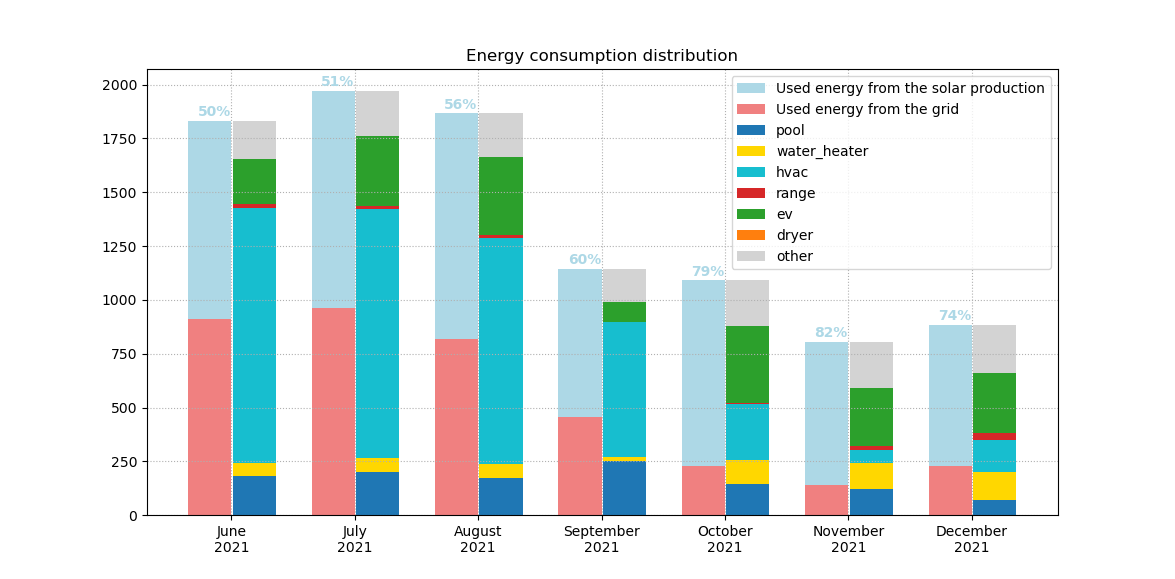
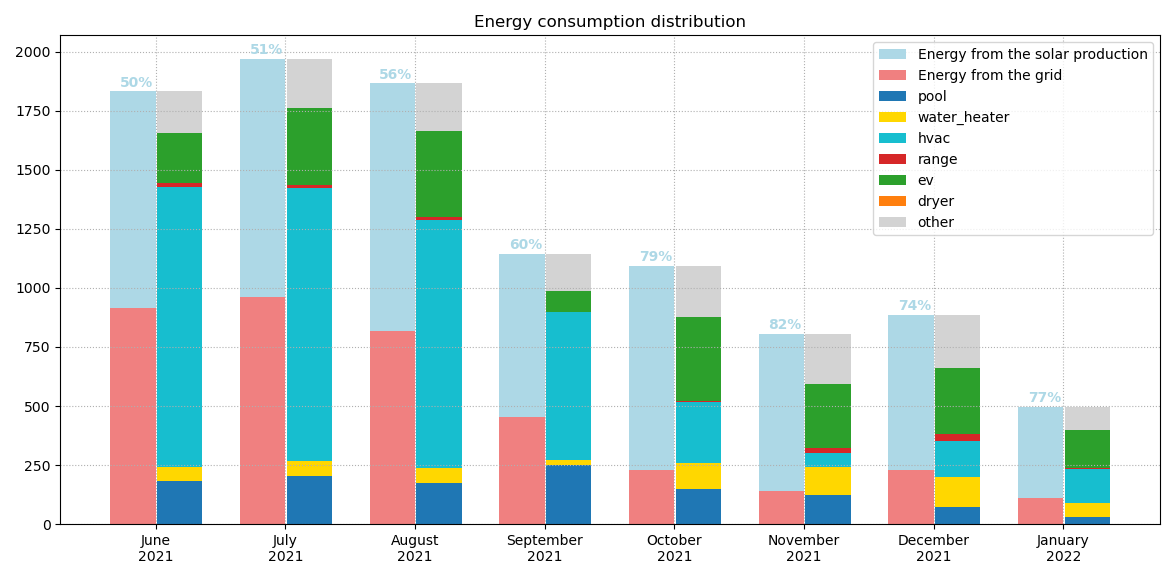
README: generate README.md from README.org
README.org dynamically computes data and create diagram used by
README.md.

diff --git a/README.md b/README.md
@@ -1,0 +1,46 @@
+This project aims to optimize the use of solar produced energy in a residential home. In the implementation described below it optimizes three appliances: an Electric Vehicle charger, a water heater and an HVAC system. The project has focused so far on these three appliances because they add up to approximately 72% of a my home energy usage and they are a form of energy storage.
+
+My home is located in Phoenix, Arizona and my solar system is not equipped with battery system. Even though at this location 296 days per year are either sunny or partly sunny, photovoltaic production is still highly unpredictable and I quickly confirmed that a time based schedule was not going to be enough to meet to the ambitious goal of running 100% of the car and &asymp; 60 to 70% of my entire home consumption coming from the solar panels production. 
+
+The illustration below shows the energy consumption distribution of my home since I started this project.
+
+![img](doc/images/energy_consumption_distribution.png)
+
+This diagram does not reflect the result of the latest version of this project because I went through several proof of concepts over time. Nevertheless, it allows to see that between `June 2021` and `January 2022`, on average &asymp; `62%` of the electricity used by my home came from the solar panels.
+
+The implementation relies on various modules providing services such as weather forecast, instant power consumption records, solar power prediction, home thermal model, appliances controls and a scheduler. **Note**: This project implementation is not generic enough to be plugged-in as-is to control any system. Some modules rely on specific hardware devices or specific software interfaces. For instance, the `car_charger` task module relies on the Pulsar II Wallbox&reg; charger   and have dependencies on their cloud service. Nevertheless, I believe that most of this project can be re-use in various forms and this is why I made it available publicly.
+
+When I started this project I discarded existent Home Automation "framework" such as Home Assistant as I didn't want my design to be tighten to a framework or have to carry the burden of software architecture which could have made my work more difficult. Also, I originally needed a prompt solution to charge my car smartly and I did not have time to dig in the various frameworks. However, this project is modular enough that I have been able to quickly integrate it to Home Assistant as you can see in the screen capture below.
+
+![img](./doc/images/scheduler_at_work.png)
+
+The software architecture is based on well separated python modules each running in their dedicate process. Each module implements known interfaces such as or . Alternatively or in addition, a module can expose its a original service interface. The inter-processes communication is guaranteed by the [pyro5](https://pypi.org/project/Pyro5/) remote objects communication library. Each service, sensor or task is registered to a pyro5 nameserver under the `home-manager` namespace.  The services are under the `home-manager.service` sub-namespace, the sensors under the `home-manager.sensor` sub-namespace and the tasks are under the `home-manager.task` sub-namespace. For instance, the task responsible of the HVAC system is implemented by the [hvac.py](./src/hvac.py) program and registered as `home-manager.task.hvac` to the nameserver.
+
+The diagram below represents the principal communications between the main modules.
+
+![img](doc/images/programs-communication.png)
+
+Now let's have go a short presentation or the modules:
+
+<span class="underline">The main sensors are</span>:
+
+1.  The [power\_sensor](./doc/power_sensor.md) (`home_manager.sensor.power`) module provides instantaneous power consumption and power production readings. It also provides power reading over a certain period of time such as one minute, one hour or one day. This sensor is used by the [scheduler](./doc/scheduler.md) to build power consumption statistics leading to task scheduling decisions. Some task such as [car\_charger](./doc/car_charger.md) also uses this sensor.
+2.  The [power\_simulator](./doc/power_simulator.md) (`home_manager.sensor.power_simulator` and `home_manager.sensor.power_simulator`) module implements the solar panel model of my installation using the python [pvlib](https://pvlib-python.readthedocs.io/en/stable/) library.
+    -   Similarly to [power\_sensor](./doc/power_sensor.md) the sensor part of this module provides instantaneous power consumption and production readings except that the production reading are based on a solar panel model and the consumption reading are based on current the tasks status. This [power\_simulator](./doc/power_simulator.md) is used as an alternative if [power\_sensor](./doc/power_sensor.md) is failing by the [scheduler](./doc/scheduler.md) and the [car\_charger](./doc/car_charger.md).
+    -   The service part of this module provides properties and functions such as:
+        -   the [max\_available\_power](./doc/power_simulator.md#max_available_power) property which is the maximum instantaneous power in kW the solar panels are expected to deliver from now to the end of daytime
+        -   the [next\_power\_window(power)](./doc/power_simulator.md#next_power_window) function which returns the next time frame when `power` kW would be available on a perfectly sunny day. This information is useful to tasks which need to know until when they can expect to get enough power to run.
+3.  The [weather](./doc/weather.md) (`home_manager.sensor.weather` and `home_manager.service.weather`) module provides instantaneous weather information such as temperature or wind speed as a object. It also provides weather forecast service with methods to get data such as the temperature at the certain point in time. The forecast service is important to multiple modules. For instance, a solar panel production performance depends on multiple factors and in particular the temperature thus the [power\_simulator](./doc/power_simulator.md) uses the weather forecast service to compute an accurate PV panels productions estimation.
+4.  The [car\_sensor](./doc/car_sensor.md) (`home_manager.sensor.car`) module provides information such as the car current state of charge and mileage.
+
+The central piece of the system is the [scheduler](./doc/scheduler.md). The [scheduler](./doc/scheduler.md) is responsible of optimally schedule registered tasks depending on their priority level, their power needs, some task specific running criteria and of course, power availability. The scheduler module evaluates the situation and makes new decision every minutes. It computes power consumption statistics with a sliding window of power records and uses this data to determine the ratio of the energy a particular appliance has been consuming compared to what the photovoltaic system has been producing. This ratio represents how much of the energy used by a particular appliance has been covered by the photovoltaic production. This ratio is provided to each tasks which are responsible to let the scheduler know if this ratio would be good enough to start the task or keep it running if it is already started.
+
+The project provides multiple tasks:
+
+1.  The [car\_charger](./doc/car_charger.md) task is responsible of charging the Electric Vehicle. It uses a simple strategy: the priority is set depending on the car current state of charge, the lower the state of charge the higher the priority. When this task is started, it automatically adjusts the charging rate depending on the power availability and it does so multiple times a minute.
+2.  The [water\_heater](./doc/water_heater.md) task is responsible of heating the water tank. In opposition to the car which has a large enough capacity to be able to skip a couple of days of charge the water heater has to run every single day regardless of the photovoltaic production. Therefor the strategy is a little bit more complex: the task priority is set based on the water tank level and temperature but also on how close we are of the target time. The target time is defined as the last point in time of the day when the photovoltaic system theoretically produces enough power to cover 100% of the water heater needs. In addition to that, if the priority is the highest possible and we are close to the target time, the water heater reports that it meets its running criteria regardless of the current consumption/production ratio. That way the [water\_heater](./doc/water_heater.md) task is guaranteed to be scheduled and meet its daily goal.
+3.  The [hvac](./doc/hvac.md) task is responsible of heating and cooling the home during daylight. At night, the regular thermostat schedule resumes. In my home the HVAC system clearly is the appliance consuming the most energy and this is why the HVAC optimization is critical.
+    Similarly to the [water\_heater](./doc/water_heater.md) task a target time is determined thanks to the [power\_simulator](./doc/power_simulator.md). However, the algorithm determining the target time is slightly more complex because the HVAC system power consumption varies when the outdoor temperature changes and under high temperature or low temperature, the HVAC system needs more power than what the photovoltaic system can produce. In order to calculate the target time, the hvac task uses a performance model of the HVAC system built out of data recorded over several month of use. The following diagram is a representation of the HVAC performance model. For a certain range of outdoor temperatures, the blue line represents the power used by the HVAC system and the orange line the number of minutes needed to change the temperature by one degree Fahrenheit.
+    ![img](./doc/images/hvac_model.png)
+    The HVAC system needs a target time but also a target temperature. The target temperature is defined as the temperature to be at target time so that at a later specified time the home would be at a desired temperature. For instance, if the desire is to have a temperature of 73°F at 11pm, the [hvac](./doc/hvac.md) task computes what the temperature should be at target time taking into account the expected temperature change of the home between the target time and 11PM. This computation relies on a home thermal model built out of data captured over several months.
+
